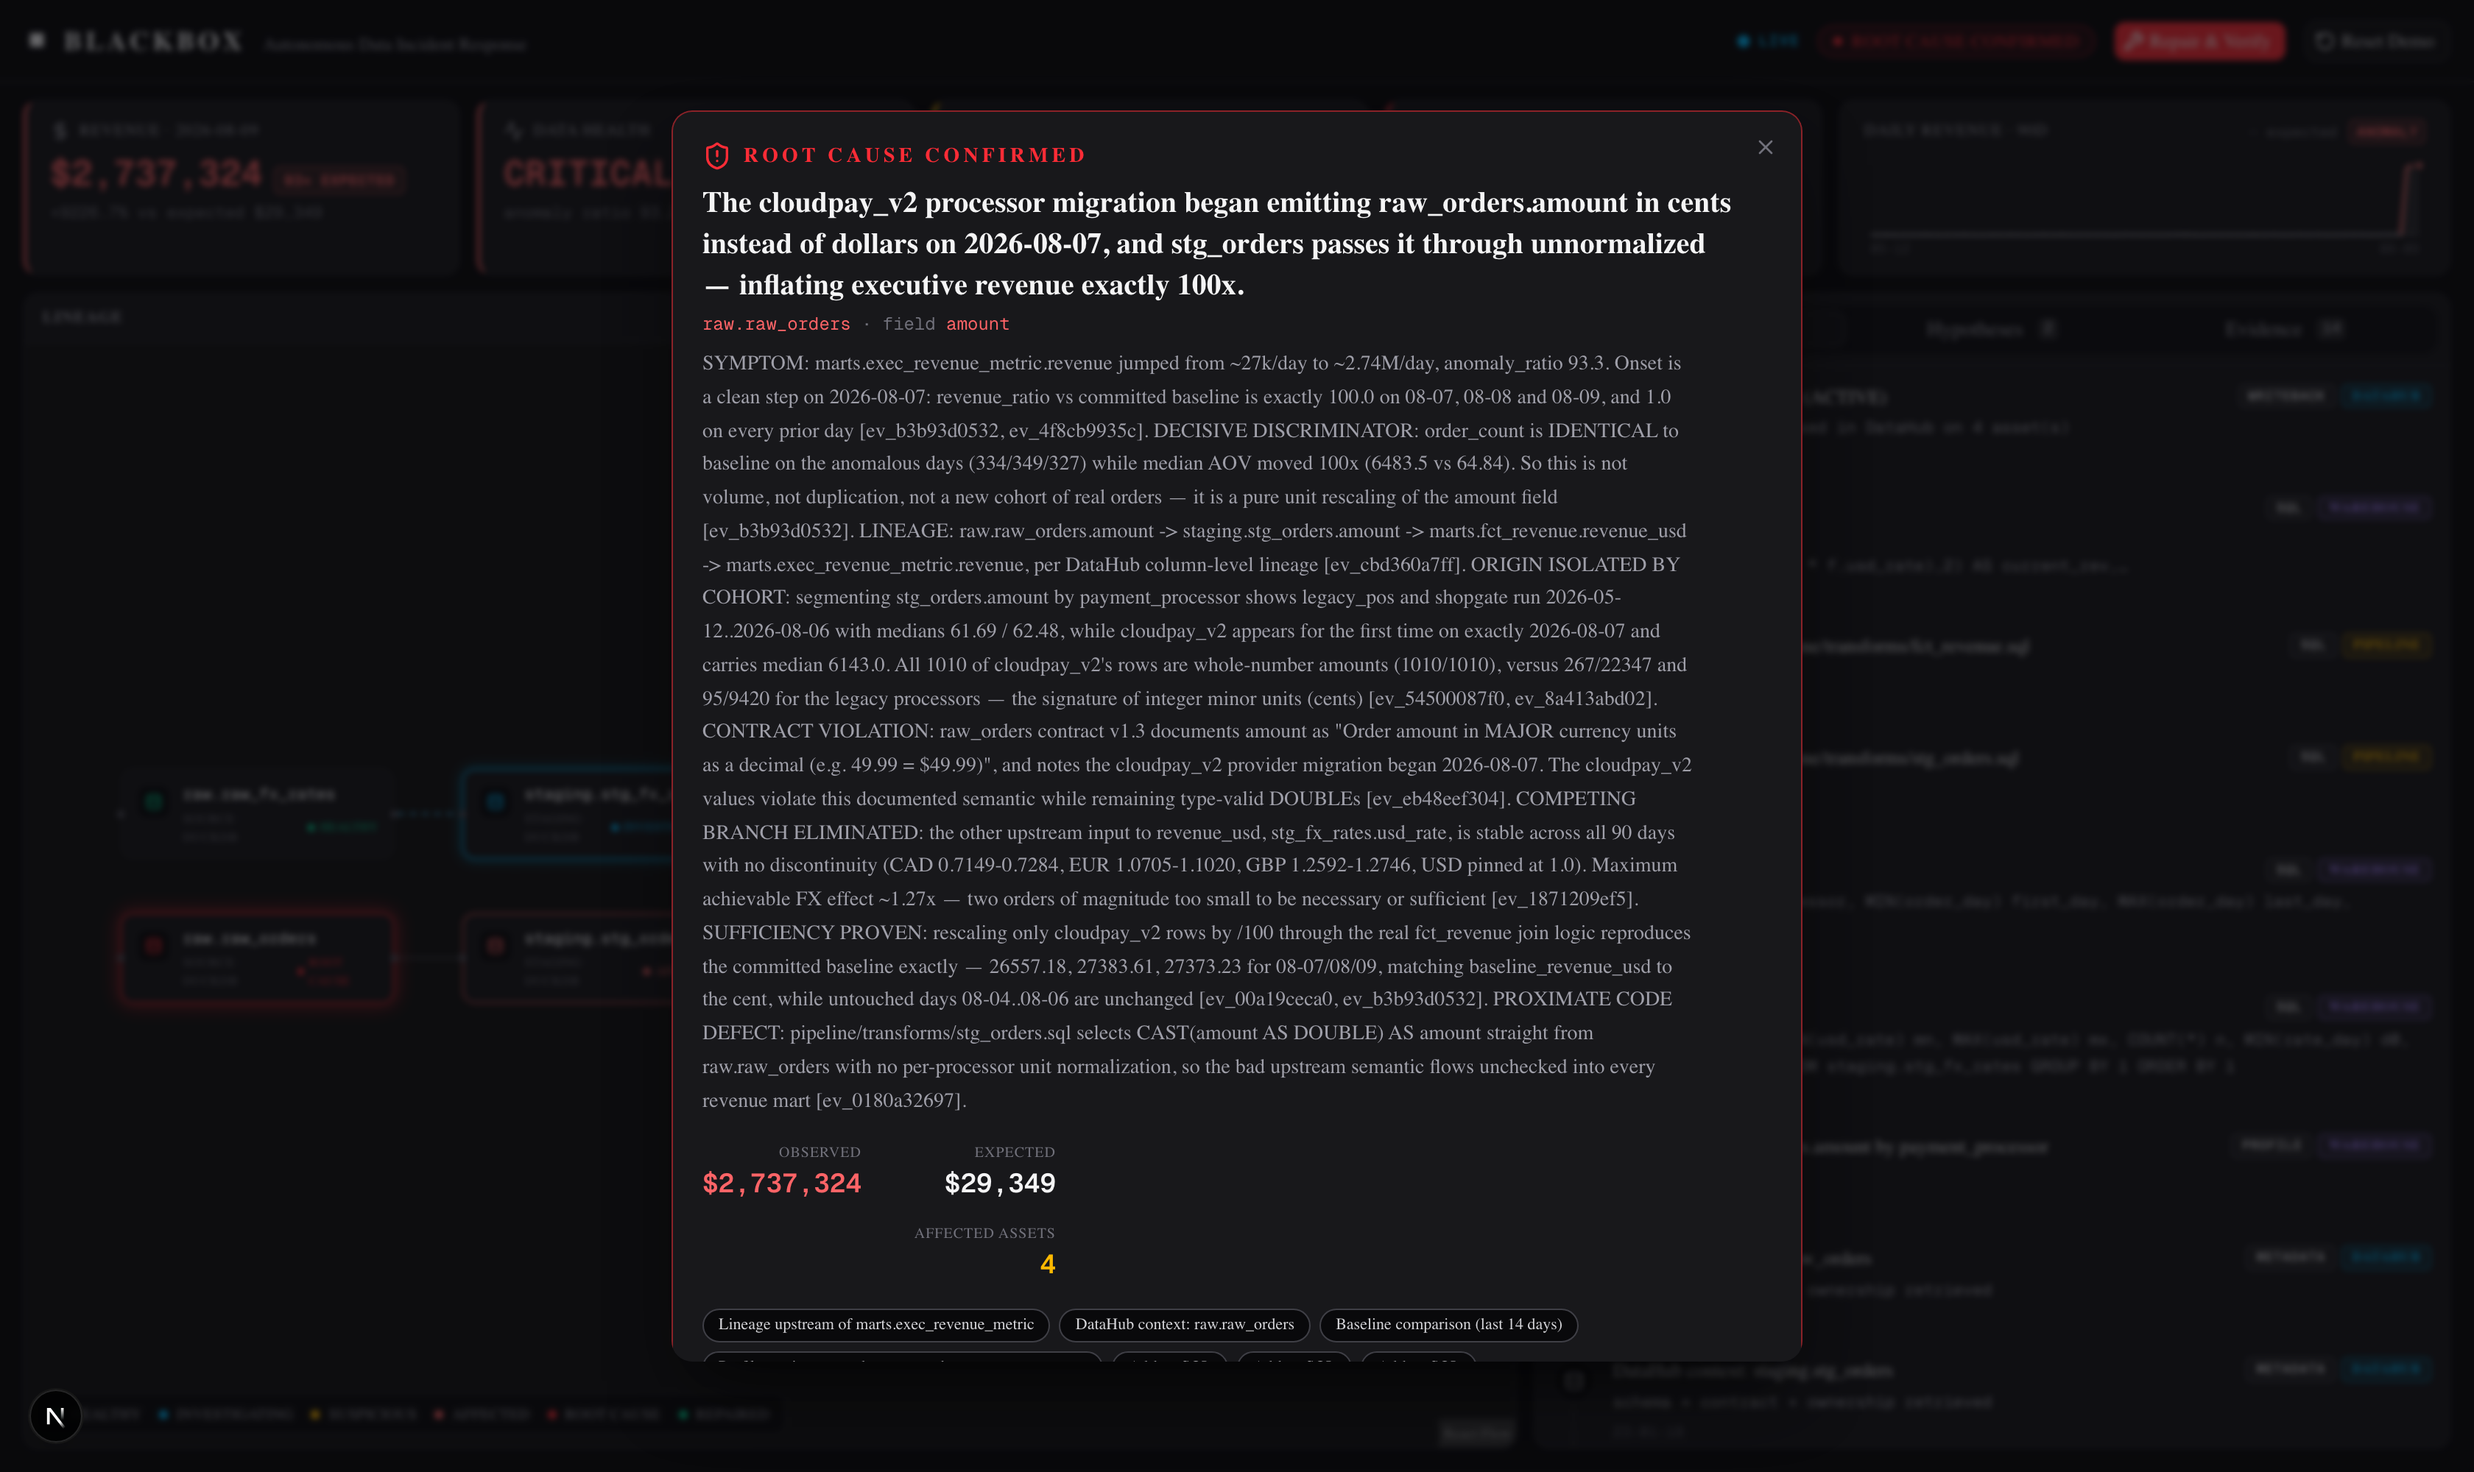
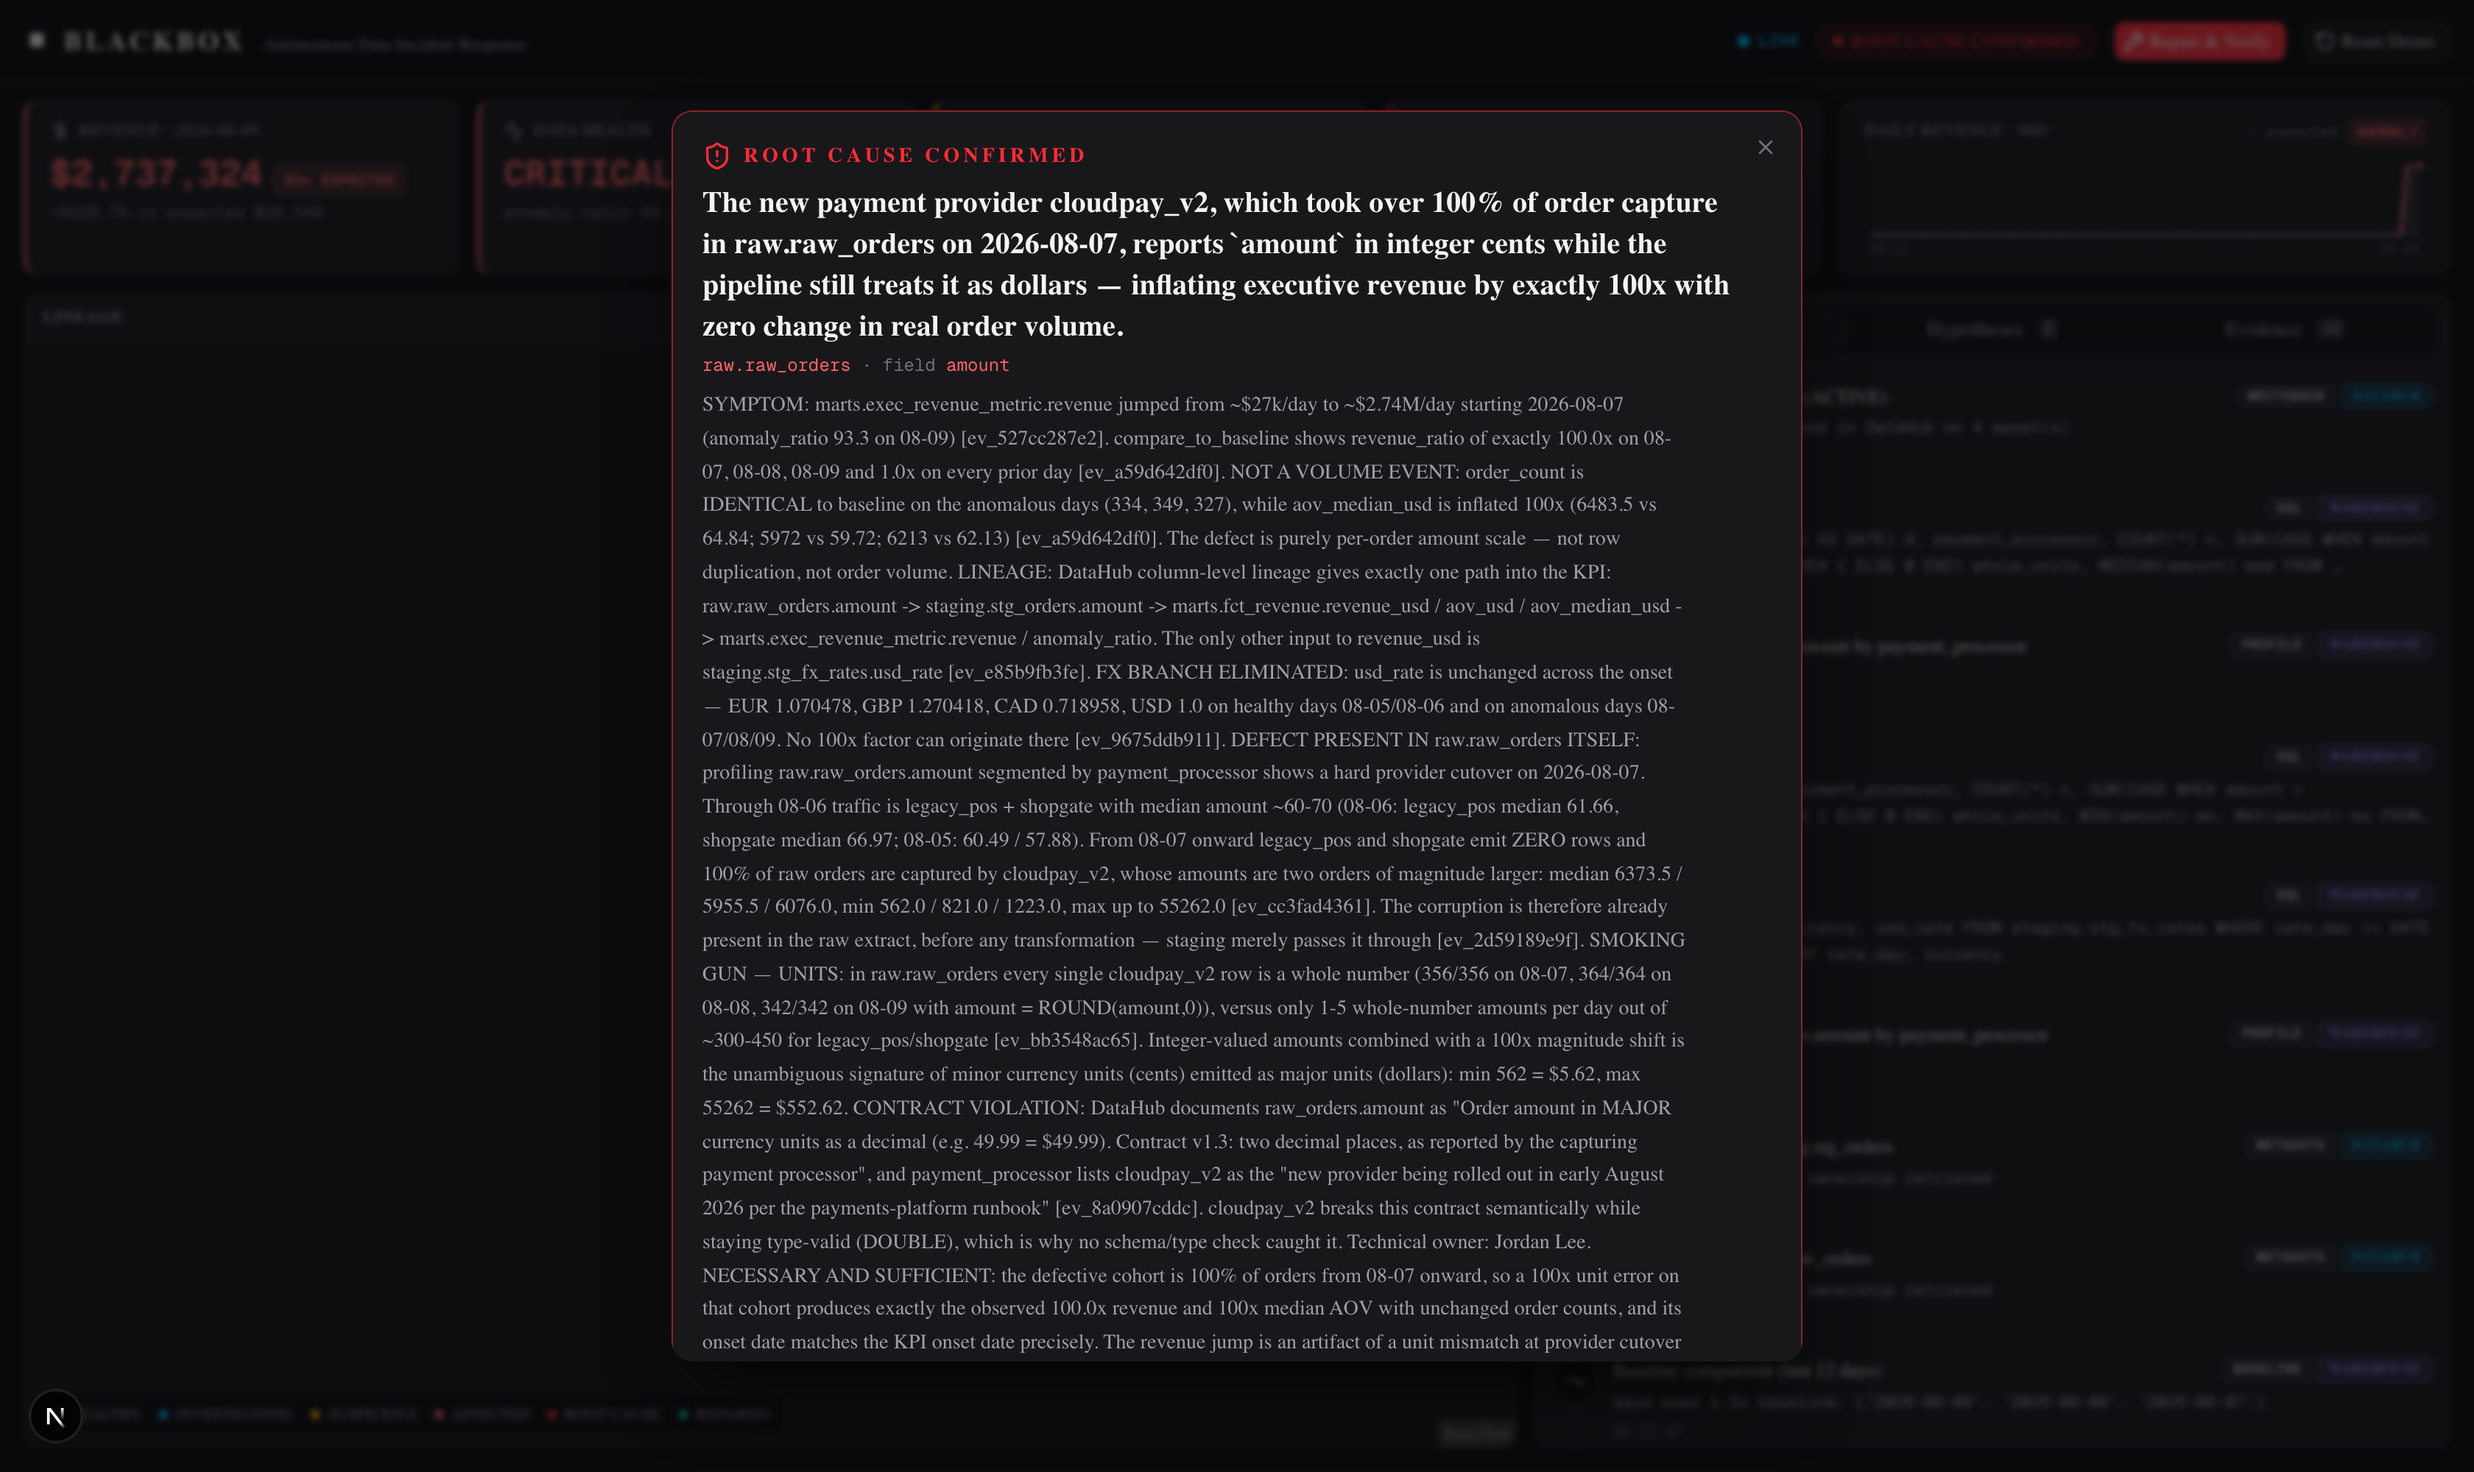
UI: resolution/root-cause cards lead with evidence, long report collapsed
The agent's post-mortem is long-form markdown; rendering it inline buried the
before/after KPI, diff, git artifact and writeback row below the fold. Hero
stats now sit above the fold with the full report in a details drawer.

diff --git a/frontend/src/components/ResolutionCard.tsx b/frontend/src/components/ResolutionCard.tsx
@@ -93,12 +93,6 @@ export function ResolutionCard({
         )}
       </div>
 
-      {finalSummary && (
-        <p className="mt-3 max-w-3xl text-sm leading-relaxed text-zinc-400">
-          {finalSummary}
-        </p>
-      )}
-
       {(metricBefore || metricAfter) && (
         <div className="mt-4 flex flex-wrap items-center gap-4 rounded-lg border border-zinc-800 bg-zinc-950 px-4 py-3">
           <div>
@@ -209,6 +203,22 @@ export function ResolutionCard({
             {writeback.status}
           </span>
         </div>
+      )}
+
+      {/* The agent's full post-mortem is long and markdown-flavoured: keep the
+          hero stats above the fold and let judges expand the prose on demand. */}
+      {finalSummary && (
+        <details className="group mt-3 rounded-lg border border-zinc-800 bg-zinc-950">
+          <summary className="cursor-pointer list-none px-4 py-2.5 text-xs font-semibold tracking-wider text-zinc-400 uppercase select-none hover:text-zinc-200">
+            <span className="mr-1.5 inline-block transition-transform group-open:rotate-90">
+              ›
+            </span>
+            Full incident report
+          </summary>
+          <pre className="max-h-80 overflow-auto border-t border-zinc-800 px-4 py-3 font-mono text-[11px] leading-relaxed whitespace-pre-wrap text-zinc-400">
+            {finalSummary}
+          </pre>
+        </details>
       )}
     </motion.div>
   );

diff --git a/frontend/src/components/RootCauseCard.tsx b/frontend/src/components/RootCauseCard.tsx
@@ -73,7 +73,9 @@ export function RootCauseCard({
             <span className="text-zinc-500"> · field </span>
             {rootCause.field}
           </p>
-          <p className="mt-2 max-w-2xl text-sm leading-relaxed text-zinc-400">
+          {/* The agent's full derivation runs long; cap it so the headline,
+              impact stats and CTA stay above the fold (scroll for the rest). */}
+          <p className="mt-2 max-h-44 max-w-2xl overflow-auto pr-2 text-sm leading-relaxed text-zinc-400">
             {rootCause.detail}
           </p>
         </div>
